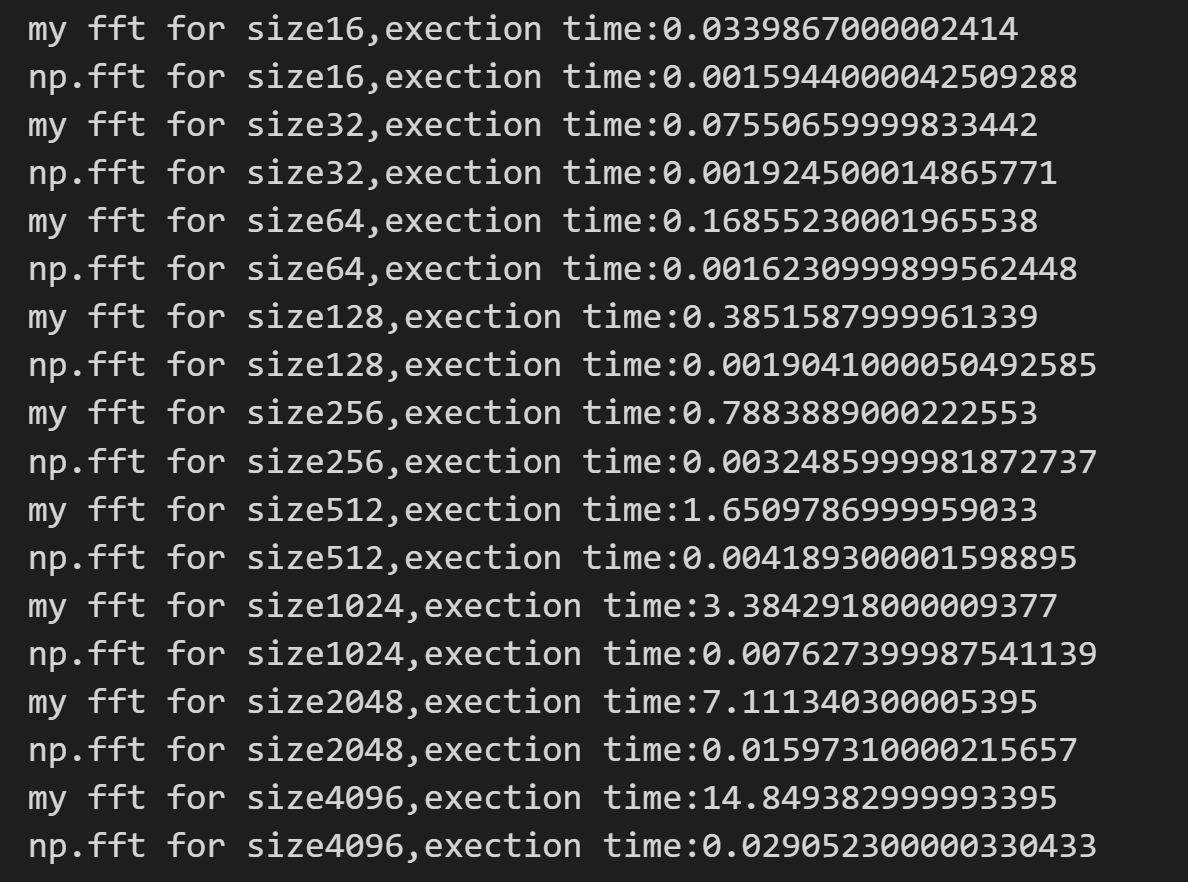
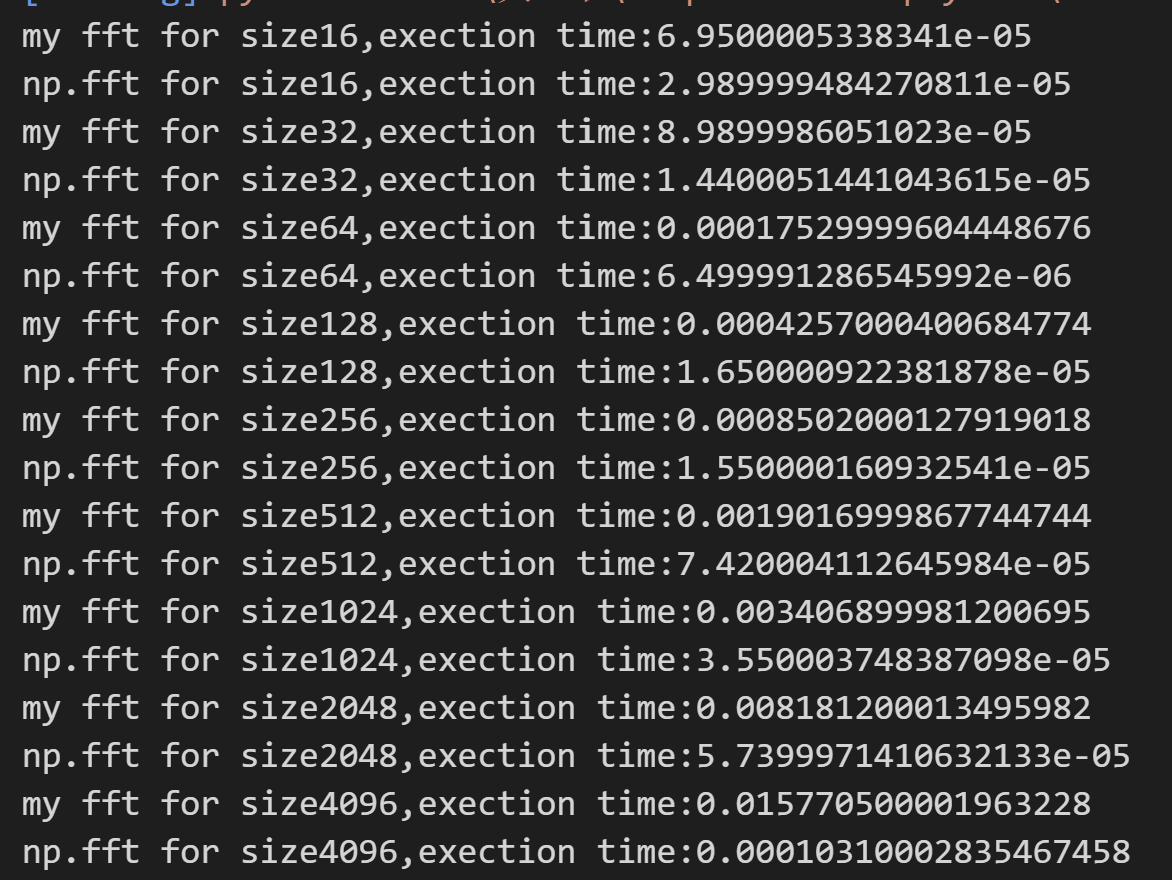
FINISH

Changed region(s): [[0.0, 0.0, 0.9829, 0.9818]]

diff --git a/code/B_gpt.py b/code/B_gpt.py
@@ -1,0 +1,89 @@
+import numpy as np
+import matplotlib.pyplot as plt
+
+def f(z):
+    """
+    方程 f(z) = z^3 - 1
+    """
+    return z**3 - 1
+
+def f_prime(z):
+    """
+    方程 f'(z) = 3z^2
+    """
+    return 3 * z**2
+
+def newton_method(z0, max_iter=100, tol=1e-6):
+    """
+    牛顿迭代法
+    z0: 初始猜测值
+    max_iter: 最大迭代次数
+    tol: 收敛容忍度
+    """
+    z = z0
+    for _ in range(max_iter):
+        dz = f(z) / f_prime(z)
+        z = z - dz
+        if abs(dz) < tol:
+            break
+    return z
+
+def get_convergence_region(center, width, resolution, bias=1e-5):
+    """
+    获取在复平面上牛顿法的收敛区域
+    center: 中心点 (复数)
+    width: 半宽度，表示正方形区域的范围
+    resolution: 网格的分辨率
+    bias: 收敛的容忍度
+    """
+    x_min, x_max = center.real - width, center.real + width
+    y_min, y_max = center.imag - width, center.imag + width
+    x_vals = np.linspace(x_min, x_max, resolution)
+    y_vals = np.linspace(y_min, y_max, resolution)
+    
+    # 创建网格
+    X, Y = np.meshgrid(x_vals, y_vals)
+    Z = X + 1j * Y
+    
+    # 根的集合
+    roots = [1, np.exp(2j * np.pi / 3), np.exp(4j * np.pi / 3)]  # 3个根
+    
+    # 收敛区域
+    region = np.zeros(Z.shape, dtype=int)
+    
+    # 对每个点应用牛顿法
+    for i in range(Z.shape[0]):
+        for j in range(Z.shape[1]):
+            z = Z[i, j]
+            # 对每个初始点进行牛顿迭代
+            z_final = newton_method(z, max_iter=50, tol=bias)
+            # 找到收敛的根
+            distances = [abs(z_final - root) for root in roots]
+            region[i, j] = np.argmin(distances)  # 收敛到哪个根
+    
+    return region, X, Y
+
+def plot_convergence(center, width, resolution, bias=1e-5):
+    """
+    可视化牛顿法收敛区域
+    """
+    region, X, Y = get_convergence_region(center, width, resolution, bias)
+    
+    # 绘制收敛图
+    plt.figure(figsize=(8, 6))
+    plt.imshow(region, extent=(X.min(), X.max(), Y.min(), Y.max()), origin='lower', cmap='Paired')
+    plt.colorbar(label='Root index (0: 1, 1: $e^{i\\frac{2\\pi}{3}}$, 2: $e^{i\\frac{4\\pi}{3}}$)')
+    center_str = f"({center.real:.2f}{center.imag:+.2f}j)"
+    
+    plt.title(f"Newton's Method Convergence (Center: {center_str}, Width: {width}, res: {resolution})", fontsize=20)
+      
+    plt.xlabel('Re(z)',fontsize=20)
+    plt.ylabel('Im(z)',fontsize=20)
+    plt.show()
+
+
+# 测试可视化
+# plot_convergence(center=0.0+0.0j, width=0.8, resolution=500, bias=1e-5)
+
+plot_convergence(center=-0.8+0j,width=0.25,resolution=1000)
+plot_convergence(center=-0.56+0.18j,width=0.1,resolution=1000)

diff --git a/code/B.py b/code/B.py
@@ -1,0 +1,72 @@
+import numpy as np
+import matplotlib.pyplot as plt
+
+def recursion(x:complex)->complex:
+    """
+    输入$z_n$,输出$z_{n+1}$
+    """
+    return (2*x**3 + 1)/(3*x**2)
+
+def f(x:complex)->complex:
+    """
+    输入$z_0$,输出函数值
+    """
+    return x**3-1
+
+def newton_method(xo:complex, max_iter=100, tol=1e-6)->complex:
+    """
+    牛顿法，输入x0为初始值，输出为收敛解
+    """
+    x = xo
+    for i in range (max_iter):
+        x = recursion(x)
+        if abs(f(x)) < tol:
+            break
+    return x
+
+def get_convergence_region(center, width, resolution, bias=1e-5):
+    """
+    计算牛顿法收敛区域
+    输入中心，宽度，分辨率，容忍度，
+    输出收敛解表格
+    """
+    x_min, x_max = center - width , center + width 
+    y_min, y_max = center - width , center + width 
+    
+    x_vals = np.linspace(x_min, x_max, int(2*width/resolution))
+    y_vals = np.linspace(y_min, y_max, int(2*width/resolution))
+    X,Y = np.meshgrid(x_vals, y_vals)
+    Z = X + 1j * Y
+
+    roots = [1, np.exp(2j * np.pi / 3), np.exp(4j * np.pi / 3)]
+
+    region = np.zeros(Z.shape, dtype=int)
+
+    for i in range(Z.shape[0]):
+        for j in range(Z.shape[1]):
+            z = Z[i, j]
+            z_final = newton_method(z, max_iter=50, tol=bias)
+            distances = [abs(z_final - root) for root in roots]
+            region[i, j] = np.argmin(distances)
+
+    return region, X, Y
+
+def plot_convergence(center, width, resolution, bias=1e-5):
+    """
+    画图
+    """
+    region, X, Y = get_convergence_region(center, width, resolution, bias)
+    plt.figure(figsize=(7, 6))
+    plt.imshow(region, extent=(X.min(), X.max(), Y.min(), Y.max()), origin='lower', cmap='Paired')
+    plt.colorbar(label='Root index (0: 1, 1: $e^{i\\frac{2\\pi}{3}}$, 2: $e^{i\\frac{4\\pi}{3}}$)')
+    center_str = f"({center.real:.2f}{center.imag:+.2f}j)"
+    
+    plt.title(f"Newton's Method Convergence (Center: {center_str}, Width: {width}, res: {resolution})", fontsize=20)
+      
+    plt.xlabel('Re(z)',fontsize=20)
+    plt.ylabel('Im(z)',fontsize=20)
+    plt.show()
+
+
+# plot_convergence(center=-0.8+0j,width=0.25,resolution=0.0005)
+plot_convergence(center=-0.56+0.18j,width=0.1,resolution=0.0002)

diff --git a/code/A_Base2_FFT.py b/code/A_Base2_FFT.py
@@ -11,6 +11,9 @@ def is_power_of_two(n)->bool:
     #如果是2的幂次，则则其二进制表示中只有一个比特位为 1
 
 def fft(x):
+    """
+    快速傅里叶变换,自己写的，递归算法
+    """
     n = len(x)
     if n==1:
         return x
@@ -23,6 +26,9 @@ def fft(x):
            [even[k] - T[k] for k in range(n // 2)]
 
 def iterative_fft(x):
+    """
+    快速傅里叶变换,自己写的，非递归算法，蝴蝶运算的那个
+    """
     n = len(x)
     log_n = int(np.log2(n))
 
@@ -75,15 +81,15 @@ if __name__ == '__main__':
         if  is_power_of_two(i):
             x = np.random.rand(i) + 1j * np.random.rand(i)
             x = x.astype(np.complex128)
-            exec_time_my_fft = timeit(lambda: fft(x), number=1000)
-            exec_time_fft = timeit(lambda: np.fft.fft(x), number=1000)
-            exec_time_iterative_fft = timeit(lambda: iterative_fft(x), number=1000)
-            my_fft.append(exec_time_my_fft)
-            my_iterative_fft.append(exec_time_iterative_fft)
-            np_fft.append(exec_time_fft)
+            exec_time_my_fft = timeit(lambda: fft(x),number=1000)
+            exec_time_fft = timeit(lambda: np.fft.fft(x),number=1000)
+            exec_time_iterative_fft = timeit(lambda: iterative_fft(x),number=1000)
+            my_fft.append(exec_time_my_fft/1000)
+            my_iterative_fft.append(exec_time_iterative_fft/1000)
+            np_fft.append(exec_time_fft/1000)
             
             print(f"my fft for size{i},exection time:{exec_time_my_fft}")
-            print(f"my iterative_fft for size{i},exection time:{exec_time_iterative_fft}")
+            # print(f"my iterative_fft for size{i},exection time:{exec_time_iterative_fft}")
             print(f"np.fft for size{i},exection time:{exec_time_fft}")
 
     nlogn = [i*np.log2(i) for i in size]

diff --git a/code/A_wave.py b/code/A_wave.py
@@ -21,3 +21,5 @@ plt.xticks(fontsize=20)
 plt.yticks(fontsize=20)
 plt.grid()
 plt.show()
+
+print(freq[:50])

diff --git a/README.md b/README.md
@@ -1,3 +1,28 @@
+# 题目
+## A．DFT和FFT
+
+1．编写一个DFT程序，要求接受元素类型为 ````complex128（python）／ComplexF64（julia）````的一维数组。返回其离散傅里叶变换。给出测试样例（例如对随机数组做DFT）并对比FFTW等库函数的结果。（1分）
+2．编写一个基本的Base2 FFT程序，检查输入数组长度是否为2的幂次；如果是则执行快速傅里叶变换FFT。不可以使用和fft相关的库函数。给出数组大小从 $2^4$ 到 $2^{12}$ 的测试样例。（1．5分）你的程序的计算复杂度理论上是什么？对比标准库，你的程序用时如何，符合复杂度的理论预期吗？（1分）
+hint：使用递归的算法即可获得本题分数，但是有兴趣的同学可以探究如何编写正向递推的程序。如果你自己写的程序在部分算例上比库函数更快（这是有可能的），想想可能的原因，并分享给大家。在测试用时的时候，请使用较为准确的测试工具，至少精确到微秒。
+3．分析信号：文件 ````waveform．dat```` 储存了示波器测量得到的电压信号，第一列数据为采样时间轴，第二列为对应时间点的电压值。请你使用FFT分析这段信号的频域特征，看看在频谱上发现了什么。本题使用库函数的FFT即可，无需自己写（2分）
+
+## B．牛顿迭代法
+
+使用牛顿迭代法求解复平面上的非线性方程 $f(z)=0$ ．其中
+
+$$
+f(z)=z^3-1, \quad z \in \mathbb{C}
+$$
+
+
+1．这个方程的根有哪些？（1分）
+2．假设 $f(z)$ 为一个未知函数，现在使用标准的牛顿法迭代求解 $f(z)$ 的零点。初始的猜测解为 $z_0$ 。 请写出求解迭代过程中，$z_n$ 的递推公式。（1分）
+3．记 $z=x+i y$ 。在 $x, y$ 平面上，以 $(x, y)=(0,0)$ 为中心， 1 为半宽的正方形区域内，取分辨率 0.002 ，探究平面上的不同点分别收敛到哪个根上，并可视化你的结果。（1分）
+4．重复（3）的过程，但是分别放缩到
+（a）．以 $(-0.8,0.0)$ 为中心， 0.25 为半宽，分辨率 0.0005 。
+（b）．以 $(-0.56,0.18)$ 为中心， 0.1 为半宽，分辨率 0.0002 。
+呈现你的可视化结果。（0．5分）你发现了什么有趣的现象？（1分）
+
 # 结果及讨论
 ## A.DFT和FFT
 ### 1.编写一个DFT程序并验证
@@ -41,30 +66,58 @@ def fft(x):
 ![](figure/A_2_2.png)
 由上图可以看出，我所编写的fft函数用时多于标准库的用时。
 接下来分析我的代码的时间复杂度：
-1. 递归调用的次数为$log_2(n)$，每次递归调用的
+递归调用的次数为$log_2(n)$，每次递归调用
 ```` python
 T = [cmath.exp(-2j * cmath.pi * k / n) * odd[k] for k in range(n // 2)]
     # 利用离散傅里叶变换的性质:傅里叶变换的结果中前一半和后一半互为共轭
     return [even[k] + T[k] for k in range(n // 2)] + \
            [even[k] - T[k] for k in range(n // 2)] 
 ````
-语句的时间复杂度为$O（\frac{n}{2}）$（此处考虑到离散傅里叶变换的形式，即前一半与后一半互为复共轭），因此时间复杂度为$O(\frac{nlog_2(n)}{2}) = O(nlog_2(n))$。
-而这也是理论上最小的时间复杂度。
+语句的时间复杂度为$O（\frac{n}{2}）$（此处考虑到离散傅里叶变换的形式，即前一半与后一半互为复共轭），递归调用的深度为$O(log_2(n))$，因此时间复杂度为$O(\frac{nlog_2(n)}{2}) = O(nlog_2(n))$。
+而这也是理论上最小的时间复杂度。同时不难发现该算法的空间复杂度也是$O(nlog_2(n))$
 我的程序用时多于标准库函数的原因分析如下：
 1. 我的程序中使用了for循环，时间上有较大的开销，即使我使用了list-generator语法，但是for循环的开销还是较大的。
 2. python内置list比较慢
 3. 我的程序是递归算法，多次递归进入函数也产生了一定的时间开销。
 
-因此，我运用“蝴蝶运算”，改变了数组顺序，时间复杂度仍未$O(nlog_2(n))$，但是空间复杂度降为$O(1)$。相关代码记为````my_iterative_fft````，测试样例及结果如下：
+因此，我运用“蝴蝶运算”，改变了数组顺序，时间复杂度仍为$O(nlog_2(n))$，但是空间复杂度降为$O(1)$。相关代码记为````my_iterative_fft````，测试样例及结果如下：
 
 ![](figure/A_2_3.png)
 
 由图中可以看出，
-1. 
-2. 
+1. 无论是我编写的````my_fft````还是````my_iterative_fft````，以及标准库函数````np_fft````,时间复杂度均为$O(nlog_2(n))$，与之前的理论分析吻合。
+2. ````my_fft````和````my_iterative_fft````在算例较小的时候用时接近，在算例增加的时候，````my_fft````用时略长于````my_iterative_fft````，原因为````my_iterative_fft````不必多次递归带入函数，减小了这部分的时间开销，在算例较大的时候有一定的时间优势。
 
-### 3.
 
+### 3.分析信号
+采集````waveform.dat````文件，将其中的数据调用库函数进行快速傅里叶变换，得到频谱如下：
 ![](figure/A_3.png)
+由上图可以看出，该波形的频率有如下的特点：
+1. 主频能量集中，大部分信号能量几种在低频区域（靠近0Hz）的位置，共有4个尖峰，说明由4个主频组成。
+2. 高频区域信号较弱,大约从几十Hz到500 Hz频段的信号幅度极低接近于零，意味着信号中较高频率的成分非常小，几乎不存在，可能是存在一个频率跨度很大的噪声。
 
-## B.
+
+## B. 牛顿迭代法
+### 1.给出方程的根
+对于方程
+$$f(z) = z^3 - 1 ,z \in \mathbb{C} $$
+方程的根有：
+$$z_1 = 1, z_2 = e^{i\frac{2\pi}{3}}, z_3 = e^{i\frac{4\pi}{3}}$$
+
+### 2.给出$z_n$的递推公式
+使用牛顿法：
+$$z_{n+1} = z_n - \frac{f(z_n)}{f'(z_n)}$$
+此处：
+$$f(z_n) = z_n^3 - 1$$
+$$f'(z_n) = 3z_n^2$$
+所以得到递推公式如下：
+$$z_{n+1} = z_n - \frac{z_n^3 - 1}{3z_n^2} = \frac{2z_n^3 +1}{3z_n^2}$$
+### 3. 在1为半宽的正方形上收敛到的根的情况
+．记 $z=x+i y$ 。在 $x, y$ 平面上，以 $(x, y)=(0,0)$ 为中心， 1 为半宽的正方形区域内，取分辨率 0.002 ，探究平面上的不同点分别收敛到哪个根上，得到结果如下：
+![](figure/B_3.png)
+### 4.放缩
+#### （a）以 $(-0.8,0.0)$ 为中心， 0.25 为半宽，分辨率 0.0005。
+![](figure/B_4_1.png)
+
+#### （b）以 $(-0.56,0.18)$ 为中心， 0.1 为半宽，分辨率 0.0002。
+![](figure/B_4_2.png)
